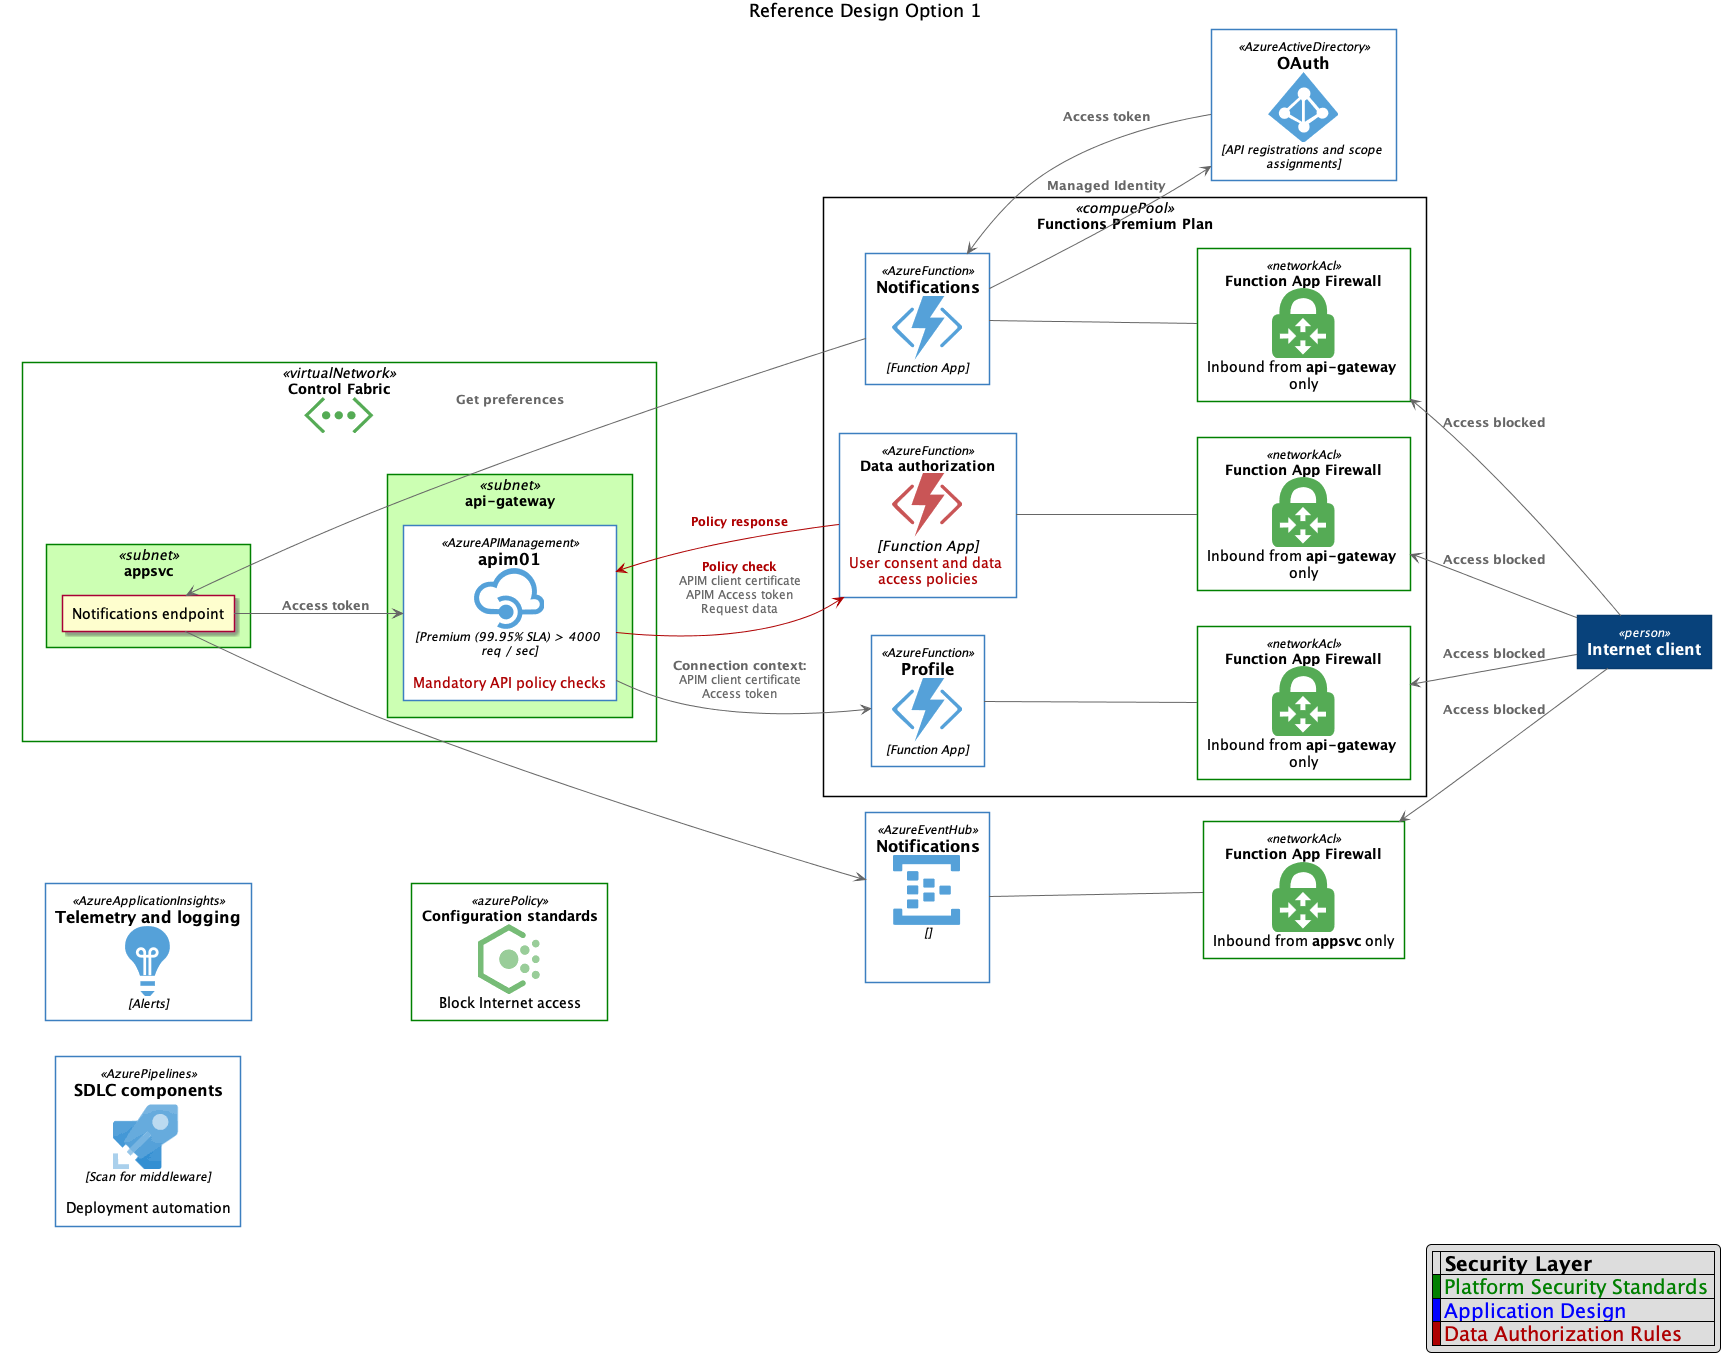
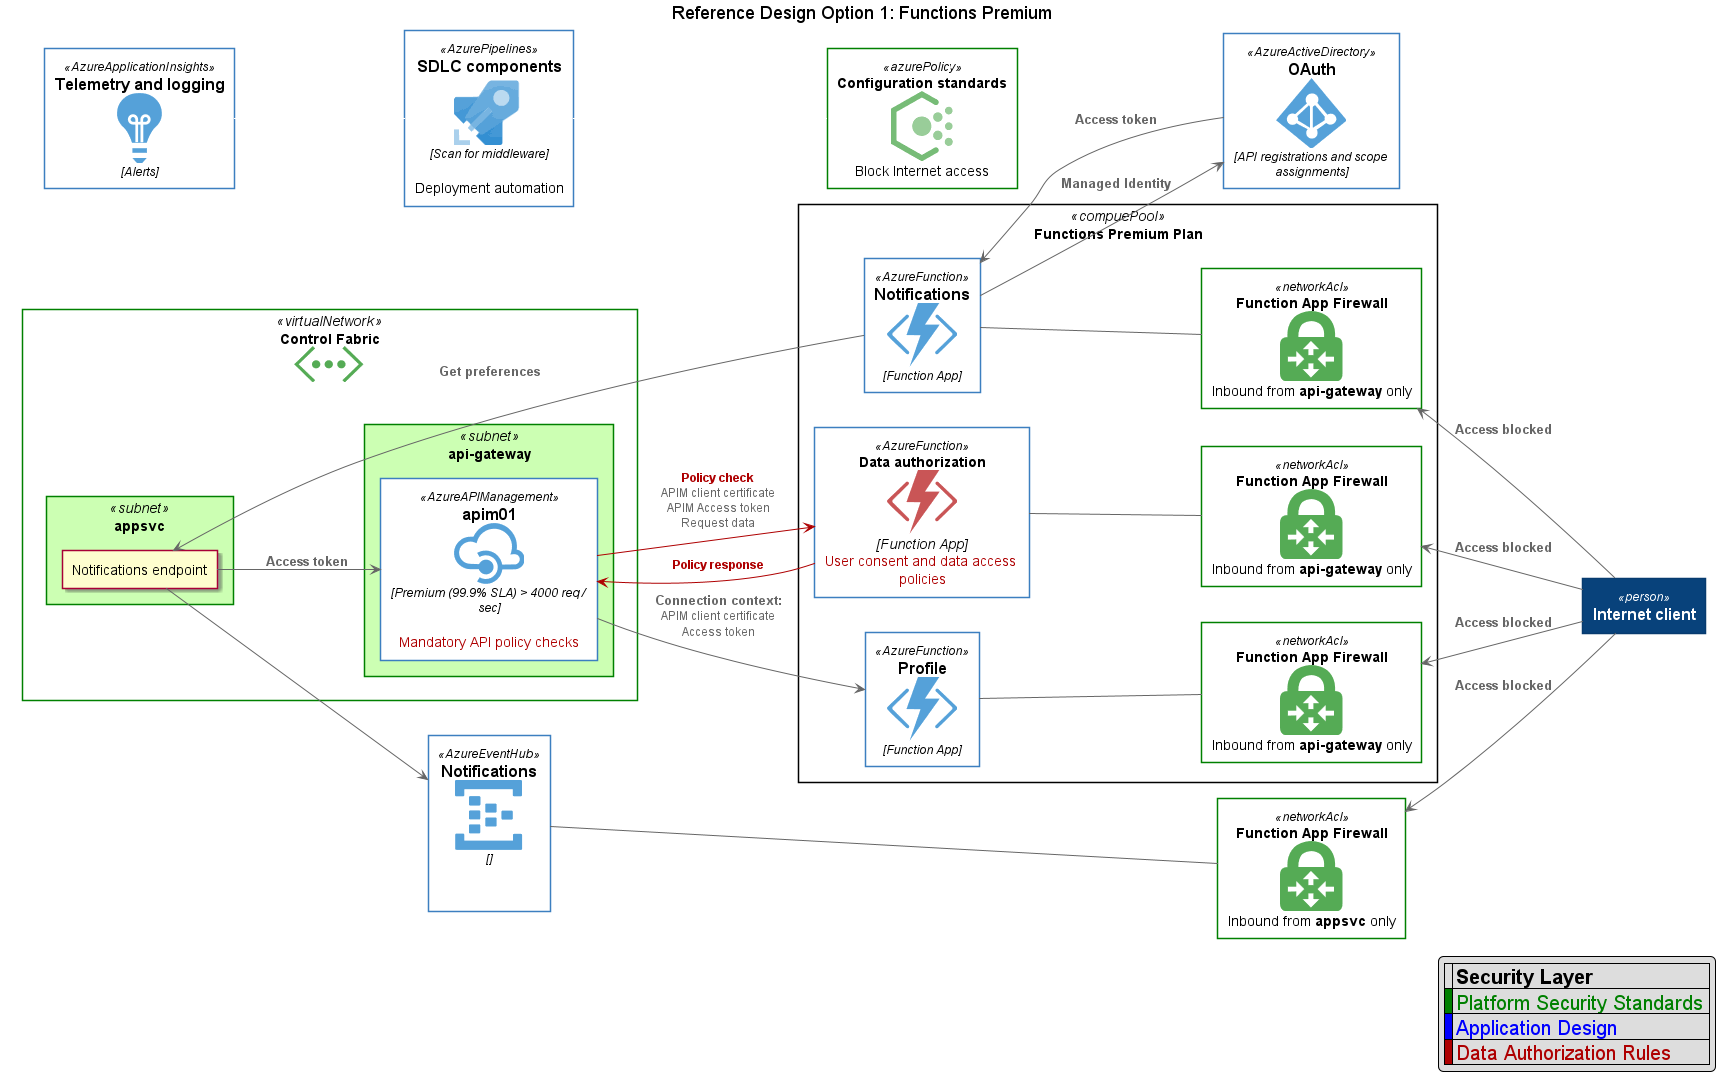
documentation updates

diff --git a/README.md b/README.md
@@ -17,7 +17,7 @@ From an operational perspectice, the security model is organized into the follow
 
 <img src="docs/img/security-layers.png" width="300"/>
 
-In the outer layer, *platform configuration standards* represent baseline governance controls that are applied enterprise-wide via policies, regardless of the workload type. These policies enforce settings for most services used by the architecture. The *application security controls* layer represents the architecture and configurations of the application itself and its surroundoing lifecycle activities. For microservices, this could mean adherence to concepts like [Zero Trust Security](https://www.microsoft.com/en-us/security/zero-trust), secure development lifecycle workflows, and aligment to specific threat models. Finally, the *data authorization* layer is responsible for ensuring all operations are executed within a legitimate and approved context. In this layer, factors such as user consent and industry compliance requirements are taken into account.
+In the outer layer, *platform configuration standards* represent baseline governance controls, many of which can be applied enterprise-wide via policies regardless of the workload type. These policies enforce settings for most services used by the architecture. The *application security controls* layer represents the architecture and configurations of the application itself and its surroundoing lifecycle activities. For microservices, this could mean adherence to concepts like [Zero Trust Security](https://www.microsoft.com/en-us/security/zero-trust), secure development lifecycle workflows, logical segmentation of services, and aligment to specific threat models. Finally, the *data authorization* layer is responsible for ensuring all operations are executed within a legitimate and approved context. In this layer, factors such as user consent and industry compliance requirements are taken into account.
 
 ## Deployment Model
 
@@ -25,7 +25,8 @@ The three layers of the above conceptual security model are realized in Azure th
 
 | Layer                  | Component                  | Security Capabilities                                                              |
 |------------------------|:---------------------------|------------------------------------------------------------------------------------|
-| Platform Configuration | Azure Policy               | Enforce Azure SKUs. Mandate VNET injected services and block Internet connectivity |
+| Platform Configuration | Azure Policy               | Enforce Azure SKUs. Mandatory PaaS service settings                                |
+| Platform Configuration | Network Security Groups    | Ingress and egress network topology and controls. Network level segmentation.      |
 | Application Security   | App Services > Mutual TLS  | Allow only authenticated network connections. Forward client certificates.         |
 | Application Security   | Azure Functions Premium    | HTTP triggers from private VNET w/ access to resources in a private VNET           |
 | Application Security   | App Services Environment   | Fully private and dedicated instance of App Services injected into a VNET          |
@@ -35,13 +36,17 @@ The three layers of the above conceptual security model are realized in Azure th
 | Application Security   | Application Insights       | Monitor network connections. Customized alerts. Application telemetry.             |
 | Data Authorization     | Data authorization service | Custom service for evaluating application API calls                                |
 
-The following diagram illustrates how these compoents interface:
+Two deployment topologies are under consideration in this repository. The first leverages Azure Functions Premium for hosting microservices as shown in the followign diagram:
 
-<img src="docs/img/deployment-option1.png" width="900"/>
+<img src="docs/img/deployment-option1.png" width="850"/>
 
-Further documentation and implementation scripts can be found on the following pages:
+The second deployment makes use of Azure's fully private PaaS offering, [App Service Environment](https://docs.microsoft.com/en-us/azure/app-service/environment/intro) (ASE). Because ASE is a fully private compute environment for hosting Functions, network segmentation controls are simplified.
+
+<img src="docs/img/deployment-option2.png" width="850"/>
+
+
+Further documentation, including deployment scripts can be found on the following pages:
 
 * [Platform Configuration Standards](docs/1-plat-configstds.md)
-* [Application Security Controls - App Services](docs/2-app-security-appsvc.md)
-* [Application Security Controls - App Service Environment](docs/2-app-security-ase.md)
+* [Application Security Controls](docs/2-app-security.md)
 * [Data Authorization Rules](docs/3-data-auth-rules)

diff --git a/docs/2-app-security.md b/docs/2-app-security.md
@@ -1,6 +1,6 @@
 # Application Security Design
 
-## Deployment
+## Deployment (Functions Premium)
 
 Run the following command to deploy the sample Function Apps
 
@@ -10,3 +10,4 @@ az group create -l centralus -n functest
 az group deployment create --resource-group functest --template-file scripts/functionapp.json
 ```
 
+## Deployment (App Service Environment)
